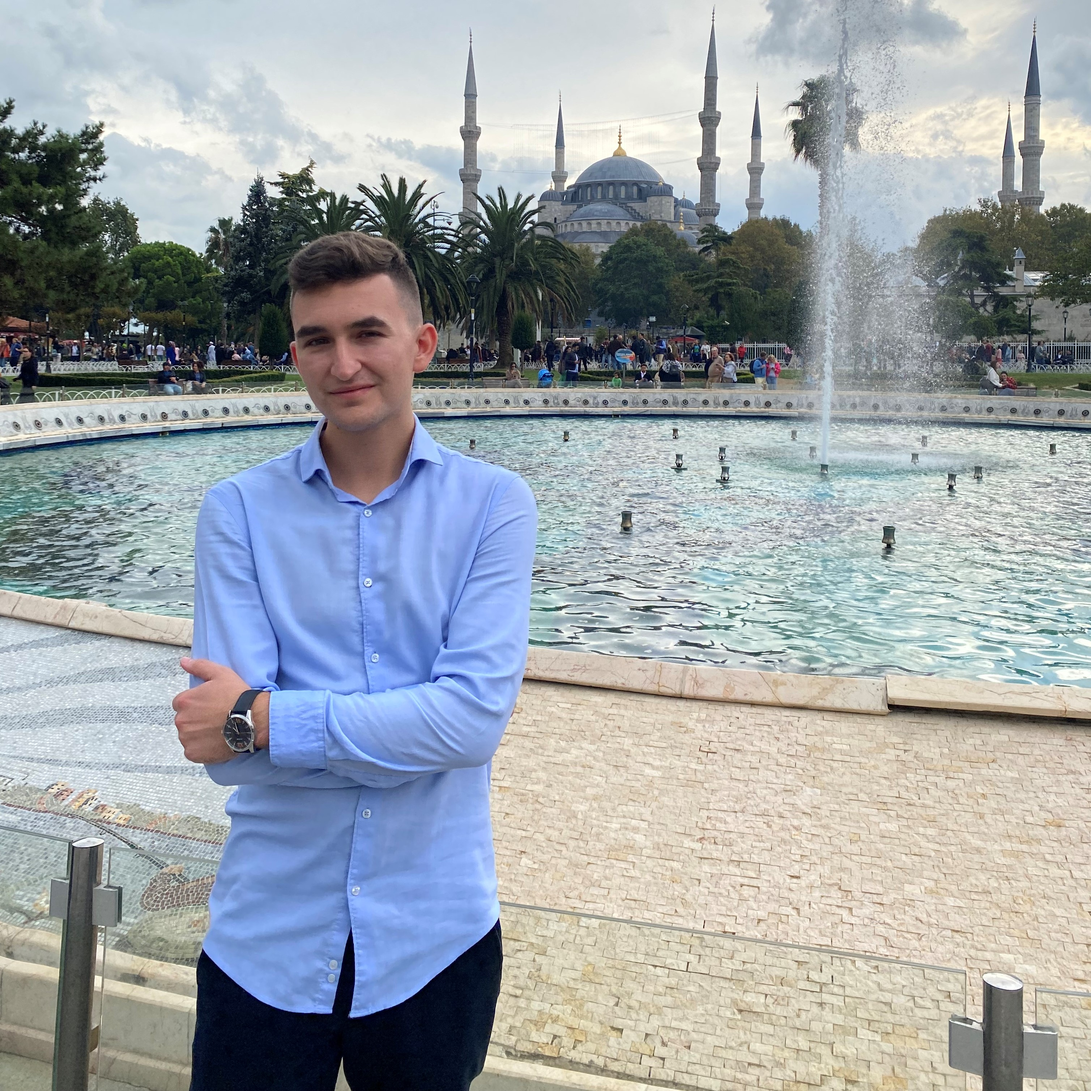
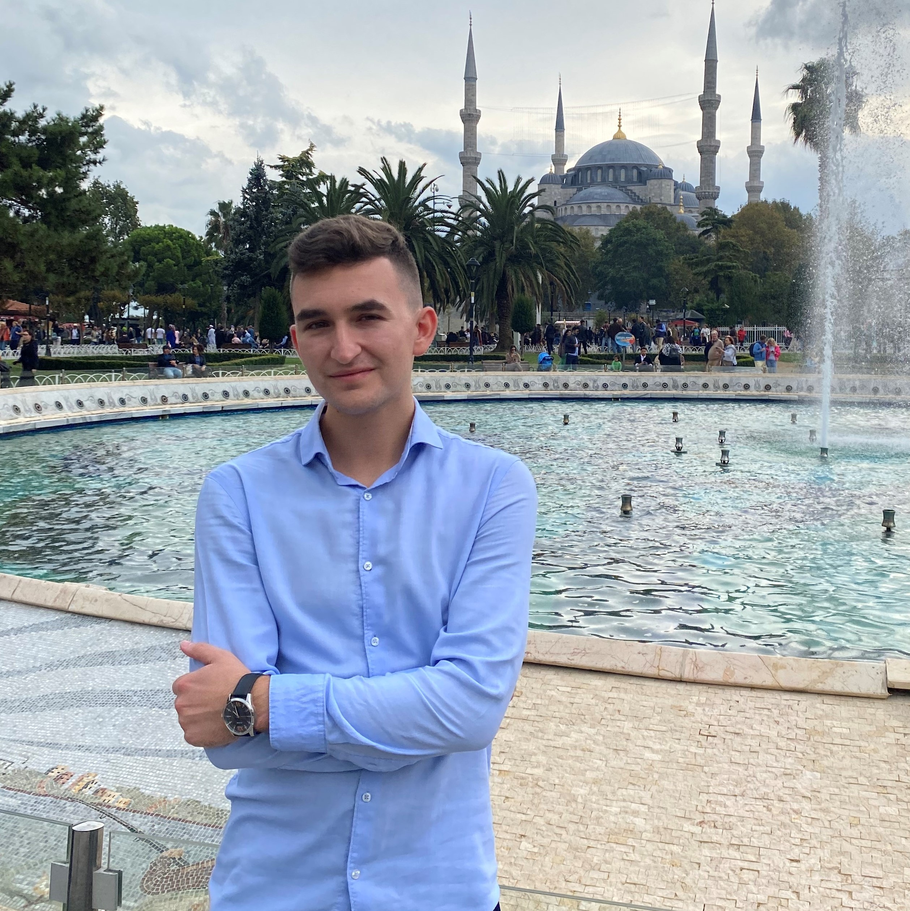
feat: add styles, modified photo, add main blocks, set dimensions

diff --git a/index.html b/index.html
@@ -12,40 +12,38 @@
 <body>
     <header class="header">
         <div class="container">
-            <div class="header-avatar">
-                <img src="./assets/img/avatar.jpg" alt="profile photo" class="profile-photo">
-            </div>
-            <div class="header-content">
-                <div class="header-menu">
-                    <nav class="nav">
-                        <ul class="nav-menu">
-                            <li class="menu-item">
-                                <a class="nav-link" href="#contacts">Contacts</a>
-                            </li>
-                            <li class="menu-item">
-                                <a class="nav-link" href="#about">About</a>
-                            </li>
-                            <li class="menu-item">
-                                <a class="nav-link" href="#skills">Skills</a>
-                            </li>
-                            <li class="menu-item">
-                                <a class="nav-link" href="#code">Code</a>
-                            </li>
-                            <li class="menu-item">
-                                <a class="nav-link" href="#projects">Projects</a>
-                            </li>
-                            <li class="menu-item">
-                                <a class="nav-link" href="#education">Education</a>
-                            </li>
-                        </ul>
-                    </nav>
+            <div class="header-container">
+                <div class="header-avatar">
+                    <!-- <img src="./assets/img/avatar.jpg" alt="profile photo" class="profile-photo"> -->
                 </div>
-                <div class="header-headline">
-                    <div class="header-title">
-                        <h1>Sergey Burukhin</h1>
+                <div class="header-content">
+                    <div class="header-menu">
+                        <nav class="nav">
+                            <ul class="nav-menu">
+                                <li class="menu-item">
+                                    <a class="nav-link" href="#contacts">Contacts</a>
+                                </li>
+                                <li class="menu-item">
+                                    <a class="nav-link" href="#about">About</a>
+                                </li>
+                                <li class="menu-item">
+                                    <a class="nav-link" href="#skills">Skills</a>
+                                </li>
+                                <li class="menu-item">
+                                    <a class="nav-link" href="#code">Code</a>
+                                </li>
+                                <li class="menu-item">
+                                    <a class="nav-link" href="#projects">Projects</a>
+                                </li>
+                                <li class="menu-item">
+                                    <a class="nav-link" href="#education">Education</a>
+                                </li>
+                            </ul>
+                        </nav>
                     </div>
-                    <div class="header-subtitle">
-                        <h2>Junior Front-End Developer</h2>
+                    <div class="header-headline">
+                        <h1 class="header-title">Sergey Burukhin</h1>
+                        <h2 class="header-subtitle">Evolving Front-End Developer</h2>
                     </div>
                 </div>
             </div>
@@ -53,67 +51,73 @@
     </header>
     <main class="main">
         <div class="container">
-            <div class="aside">
-                <section class="contacts" id="contacts">
-                    <ul class="contacts-list">
-                        <li class="contacts-item">
-                            <a href="#">Dubai, UAE</a>
-                        </li>
-                        <li class="contacts-item">
-                            <a href="#">Email</a>
-                        </li>
-                        <li class="contacts-item">
-                            <a href="#">GitHub</a>
-                        </li>
-                        <li class="contacts-item">
-                            <a href="#">Telegram</a>
-                        </li>
-                        <li class="contacts-item">
-                            <a href="#">Discord</a>
-                        </li>
-                    </ul>
-                </section>
-                <section class="skills" id="skills">
-                    <ul>
-                        <li class="skills-item">HTML</li>
-                        <li class="skills-item">CSS</li>
-                        <li class="skills-item">JavaScript</li>
-                        <li class="skills-item">GitHub</li>
-                        <li class="skills-item">Figma</li>
-                    </ul>
-                </section>
-            </div>
-            <div class="main-content">
-                <section class="about" id="about">
-                    <!-- summary, goals, education, languages -->
-                </section>
-                <section class="code" id="code">
+            <div class="main-container">
+                <div class="aside">
+                    <section class="contacts" id="contacts">
+                        <ul class="contacts-list">
+                            <li class="contacts-item">
+                                <a href="#">Dubai, UAE</a>
+                            </li>
+                            <li class="contacts-item">
+                                <a href="#">Email</a>
+                            </li>
+                            <li class="contacts-item">
+                                <a href="#">GitHub</a>
+                            </li>
+                            <li class="contacts-item">
+                                <a href="#">Telegram</a>
+                            </li>
+                            <li class="contacts-item">
+                                <a href="#">Discord</a>
+                            </li>
+                        </ul>
+                    </section>
+                    <section class="skills" id="skills">
+                        <ul>
+                            <li class="skills-item">HTML</li>
+                            <li class="skills-item">CSS</li>
+                            <li class="skills-item">JavaScript</li>
+                            <li class="skills-item">GitHub</li>
+                            <li class="skills-item">Figma</li>
+                        </ul>
+                    </section>
+                </div>
+                <div class="main-content">
+                    <section class="about" id="about">
+                        <!-- summary, goals, education, languages -->
+                    </section>
+                    <section class="code" id="code">
 
-                </section>
-                <section class="projects" id="projects">
-                    <div class="project-item">
-                        <!-- apple landing -->
-                    </div>
-                    <div class="project-item">
-                        <!-- more projects coming soon -->
-                    </div>
-                </section>
+                    </section>
+                    <section class="projects" id="projects">
+                        <div class="project-item">
+                            <!-- apple landing -->
+                        </div>
+                        <div class="project-item">
+                            <!-- more projects coming soon -->
+                        </div>
+                    </section>
+                </div>
             </div>
         </div>
     </main>
     <footer class="footer">
         <div class="container">
-            <div class="githubd-link">
-                <a href="#"> 
-                    <!-- my discord icon -->
-                    <img src="./assets/icons/github-2.png" alt="sergey's github">
-                </a>
-            </div>
-            <div class="footer-content">
-                <!-- © 2022; RS School icon -->
-                <a href="#">
-                    <img src="./assets/icons/rss.svg" alt="rsschool">
-                </a>
+            <div class="footer-container">
+                <div class="github">
+                    <a href="#" class="github-link"> 
+                        <!-- my github icon -->
+                        <img src="./assets/icons/github-2.png" alt="sergey's github" width="100px" class="gh-logo">
+                    </a>
+                </div>
+                <div class="footer-content">
+                    <div>© 2022</div>
+                    <div>
+                        <a href="#">
+                            <img src="./assets/icons/rss.svg" alt="rsschool">
+                        </a>
+                    </div>
+                </div>
             </div>
         </div>
     </footer>

diff --git a/css/style.css b/css/style.css
@@ -12,6 +12,11 @@ a {
     color: inherit;
 }
 
+h1,h2 {
+    margin: 0;
+    line-height: 40px;
+}
+
 ul {
     list-style: none;
     margin: 0;
@@ -32,43 +37,94 @@ body {
 }
 
 .header {
-    background-color:#469fb2;
-    color: #0a0a0a;
+    color: #ffff;
     font-size: 18px;
 }
 
-header .container {
-    display: flex;   
+.header-container {
+    display: flex;
+    justify-content: space-between;
+    background-color:#002f51;   
 }
 
 .header-avatar {
-    margin: 0;
-    padding: 0 15px;
-    max-width: 300px;
+    width: 25%;
+    background-image: url(../assets/img/avatar.jpg);
+    background-size: cover;
 }
 
 .profile-photo {
-    width: 100%;
+    max-width: 100%;
+    object-fit: cover;
+}
+
+.header-content {
+    width: 75%;
+    height: 300px;
 }
 
 .nav-menu {
     display: flex;
-    justify-content: space-around;
+    justify-content: flex-end;
+    margin: 20px 0;
+    background-color: #ff8200;
+    height: 50px;
+    align-items: center;
 }
 
 .nav-link {
-    padding-right: 10px;
+    padding-right: 15px;
+}
+
+.header-headline {
+    display: flex;
+    flex-direction: column;
+    align-items: flex-end;
+    margin-top: 60px;
+    padding: 15px 15px;
+    background-color: #ff8200;
+}
+
+.main-container {
+    
 }
 
 
 
-
-
-
-.main {
-    background-color: blanchedalmond;
+.aside {
+    width: 25%;
+    background-color: #002f51;
 }
 
 .footer {
-    background-color: darkgoldenrod;
+    
+}
+
+.footer-container {
+    display: flex;
+    justify-content: space-between;
+    align-items: center;
+    background-color: #ff8200;
+}
+
+.github {
+    width: 25%;
+    height: 100px;
+    background-color: #002f51;
+}
+
+.github-link {
+    max-width: 100%;
+    display: flex;
+    justify-content: center;
+    align-items: center;
+}
+
+
+.footer-content {
+    display: flex;
+    justify-content: space-between;
+    align-items: center;
+    height: 100px;width: 75%;
+
 }
